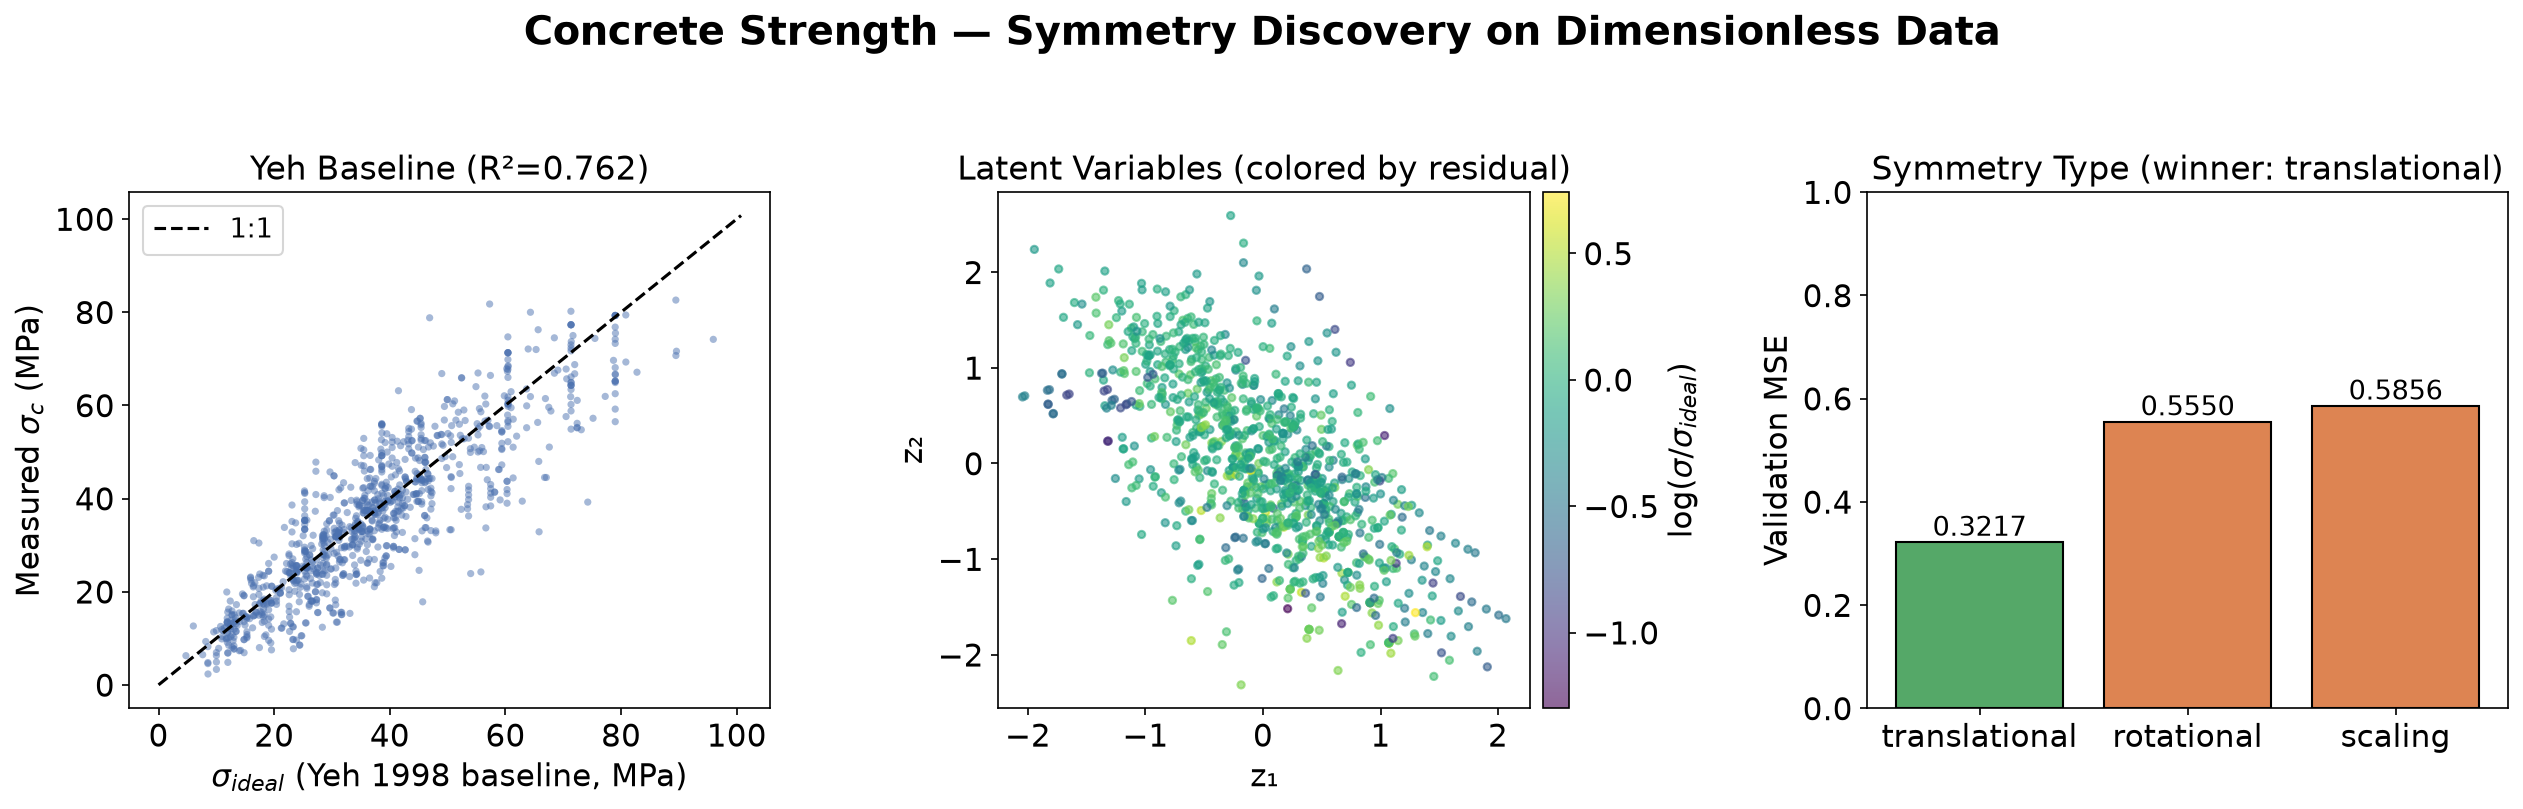
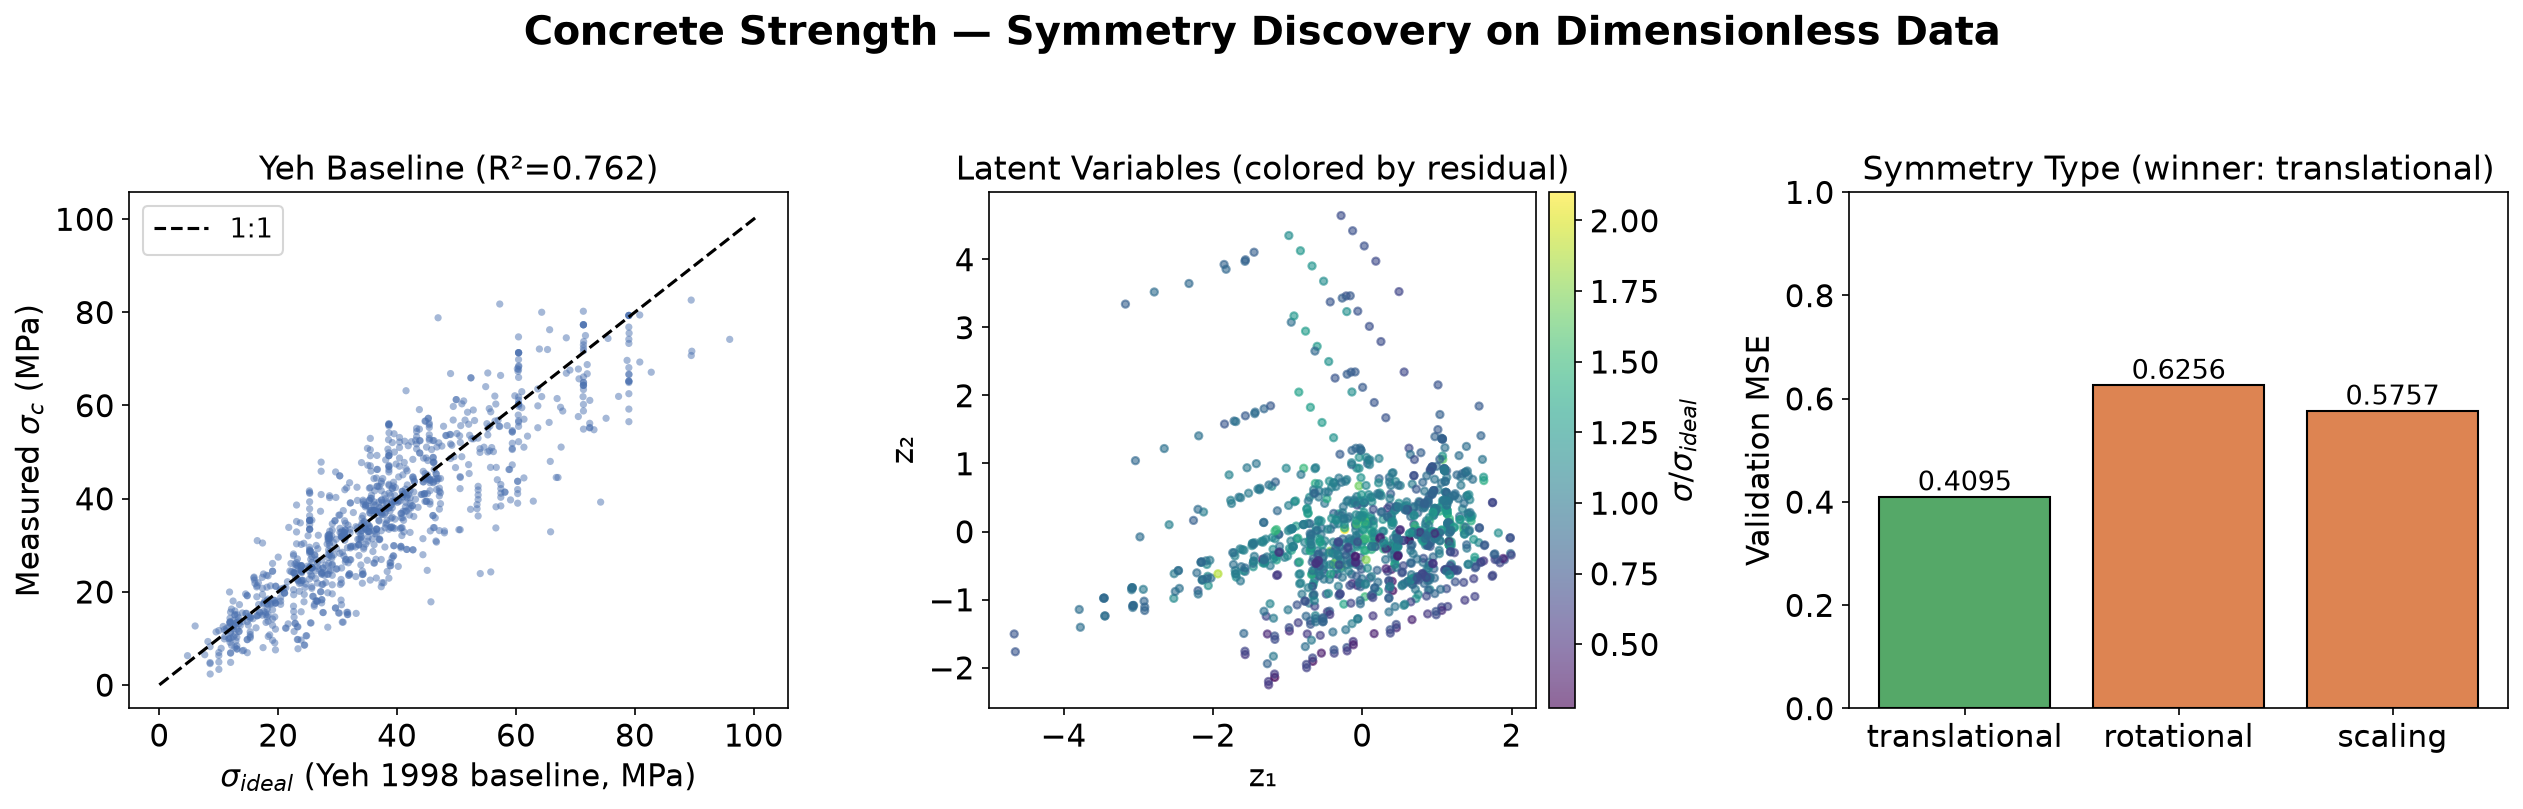
Drop logarithms from dimensionless features and target
Age feature is now t/28 (was ln(t/28)) and the target is the plain
ratio sigma/sigma_ideal (was its log), per request. Yeh's published
baseline formula keeps its ln(t) term verbatim. Translational symmetry
is still selected (1.4x gap), k=3, four residual generators; README
section 7 updated with the new numbers.

Claude-Session: https://claude.ai/code/session_01JgTSZX7aK21xpgXF2kjpws

diff --git a/projects/20260912_Stage1_Prokash/Examples/concrete_strength/discover_symmetry_dimensionless.py b/projects/20260912_Stage1_Prokash/Examples/concrete_strength/discover_symmetry_dimensionless.py
@@ -13,7 +13,7 @@ total binder mass b = cement + slag + fly ash are dimensionless:
     pi_4 = superplasticizer / b
     pi_5 = coarse_aggregate / b
     pi_6 = fine_aggregate / b
-    pi_7 = ln(t / 28 days)                  (dimensionless age)
+    pi_7 = t / 28 days                      (dimensionless age)
 
 The target is the residual strength ratio against Yeh's regression
 baseline (Table 6, average of random-split experiments R1-R4):
@@ -21,7 +21,7 @@ baseline (Table 6, average of random-split experiments R1-R4):
     sigma_ideal = a * (w/b)^b_exp * (c*ln(t) + d)     [MPa, t in days]
     a = 13.83, b_exp = -1.269, c = 0.268, d = 0.136
 
-    y = log(sigma / sigma_ideal)   (dimensionless "strength efficiency")
+    y = sigma / sigma_ideal        (dimensionless "strength efficiency")
 
 Because sigma_ideal already carries the dominant w/b and age effects,
 the ML pipeline only has to model the residual chemistry (SCM
@@ -93,7 +93,7 @@ T_REF = 28.0        # days
 
 PI_NAMES = [
     "w/b", "FlyAsh/b", "Slag/b", "SP/b",
-    "CoarseAgg/b", "FineAgg/b", "ln(t/28)",
+    "CoarseAgg/b", "FineAgg/b", "t/28",
 ]
 
 
@@ -121,7 +121,7 @@ def load_raw_data(path: str):
 def make_dimensionless(X_raw, sigma):
     """Buckingham-Pi features and Yeh-residual target.
 
-    Returns Pi (n, 7), y = log(sigma/sigma_ideal), and sigma_ideal.
+    Returns Pi (n, 7), y = sigma/sigma_ideal, and sigma_ideal.
     """
     cement, slag, flyash, water, sp, ca, fa, age = X_raw.T
     binder = cement + slag + flyash
@@ -134,11 +134,11 @@ def make_dimensionless(X_raw, sigma):
         sp / binder,
         ca / binder,
         fa / binder,
-        np.log(age / T_REF),
+        age / T_REF,
     ])
 
     sigma_ideal = YEH_A * wb**YEH_B * (YEH_C * np.log(age) + YEH_D)
-    y = np.log(sigma / sigma_ideal)
+    y = sigma / sigma_ideal
     return Pi, y, sigma_ideal
 
 
@@ -266,12 +266,12 @@ def plot_results(sigma, sigma_ideal, y, results, output_dir):
         z1 = z.ravel()
         ax.scatter(z1, y, c="#4C72B0", s=12, alpha=0.5, edgecolors="none")
         ax.set_xlabel("z = W·π (learned latent variable)")
-        ax.set_ylabel(r"$y = \log(\sigma/\sigma_{ideal})$")
+        ax.set_ylabel(r"$y = \sigma/\sigma_{ideal}$")
         ax.set_title("Latent Variable vs Strength Residual")
     else:
         sc = ax.scatter(z[:, 0], z[:, 1], c=y, cmap="viridis", s=12, alpha=0.6)
         cbar = fig.colorbar(sc, ax=ax, pad=0.02)
-        cbar.set_label(r"$\log(\sigma/\sigma_{ideal})$", fontsize=15)
+        cbar.set_label(r"$\sigma/\sigma_{ideal}$", fontsize=15)
         cbar.ax.tick_params(labelsize=15)
         ax.set_xlabel("z₁")
         ax.set_ylabel("z₂")
@@ -331,9 +331,8 @@ def main():
     print(f"  sigma_ideal = {YEH_A}*(w/b)^({YEH_B})*({YEH_C}*ln(t)+{YEH_D})  [MPa]")
     r2_base = 1 - np.sum((sigma - sigma_ideal) ** 2) / np.sum((sigma - sigma.mean()) ** 2)
     print(f"  Yeh baseline alone: R2 = {r2_base:.4f} on all {len(sigma)} rows")
-    print(f"  Residual target y = log(sigma/sigma_ideal): "
-          f"mean={y.mean():+.4f}, std={y.std():.4f} "
-          f"(geometric mean sigma* = {np.exp(y.mean()):.3f})")
+    print(f"  Residual target y = sigma/sigma_ideal: "
+          f"mean={y.mean():.4f}, std={y.std():.4f}")
     print()
 
     results = run_pipeline(Pi, y, args)

diff --git a/projects/20260912_Stage1_Prokash/Examples/concrete_strength/README.md b/projects/20260912_Stage1_Prokash/Examples/concrete_strength/README.md
@@ -203,34 +203,37 @@ R1–R4, averaged) provides a regression baseline used to form a residual
 target:
 
 - **Features:** `w/b = (water+SP)/b`, `flyash/b`, `slag/b`, `SP/b`,
-  `coarse/b`, `fine/b`, `ln(t/28 d)` — seven pure numbers.
-- **Baseline:** `σ_ideal = 13.83·(w/b)^(−1.269)·(0.268·ln t + 0.136)` MPa.
-- **Target:** `y = log(σ_c / σ_ideal)` — dimensionless strength residual.
+  `coarse/b`, `fine/b`, `t/28 d` — seven pure numbers, no transforms
+  beyond the ratios themselves.
+- **Baseline:** `σ_ideal = 13.83·(w/b)^(−1.269)·(0.268·ln t + 0.136)` MPa
+  (the `ln t` here is Yeh's published fitted form, kept verbatim).
+- **Target:** `y = σ_c / σ_ideal` — dimensionless strength residual.
 
 ### Results (seed 42, same pipeline settings as Section 5)
 
 | Quantity | Raw-input run (Sec. 4) | Dimensionless run |
 |---|---|---|
-| Target | standardized σ_c | log(σ_c/σ_ideal) |
+| Target | standardized σ_c | σ_c/σ_ideal |
 | Yeh baseline R² (no ML) | — | **0.762** (paper: ≈0.77) |
-| Geometric mean σ*/σ_ideal | — | 0.941 |
-| Optimal latent dim | 2 | 4 |
-| Held-out R² | 0.892 (of σ_c) | 0.639 (of the *residual*) |
-| Symmetry winner | translational (3.3×) | **translational (1.7×)** |
-| Generators | 6 | 3 |
+| Mean σ_c/σ_ideal | — | 0.971 ± 0.233 |
+| Optimal latent dim | 2 | 3 |
+| Held-out R² | 0.892 (of σ_c) | 0.555 (of the *residual*) |
+| Symmetry winner | translational (3.3×) | **translational (1.4×)** |
+| Generators | 6 | 4 |
 
 The translational fingerprint survives the change of coordinates: the
 strength residual is additive in the binder-referenced mix ratios. The
 R² values are not comparable across columns — the dimensionless run
 models only the variance *left over* after the analytic baseline has
-removed the dominant w/b and age effects. The three residual generators
+removed the dominant w/b and age effects. The four residual generators
 describe strength-preserving substitutions in ratio space, e.g.
-generator 3 trades slag fraction against curing age
-(`slag/b: +0.54, ln(t/28): +0.70`), consistent with the slower
-pozzolanic strength development of slag concretes. The latent dimension
-reaching the search maximum (k = 4, with R² still rising) indicates the
-residual chemistry is higher-dimensional than the raw strength surface —
-the baseline soaks up the easy 2-D structure and leaves the harder part.
+generator 2 trades w/b against slag fraction and age
+(`w/b: −0.78, slag/b: +0.36, t/28: +0.27`) and generator 4 exchanges
+slag for fly ash (`flyash/b: +0.55, slag/b: −0.70`). Note that the
+untransformed `t/28` feature is strongly right-skewed (0.036–13) and
+the raw ratio target compresses the low-strength end relative to a
+log residual, which lowers the residual R² and narrows the symmetry
+margin compared to a logarithmic variant of the same experiment.
 
 Output is written to `output_concrete_dimensionless/`
 (`concrete_symmetry_dimensionless.png`, `run.log`).
